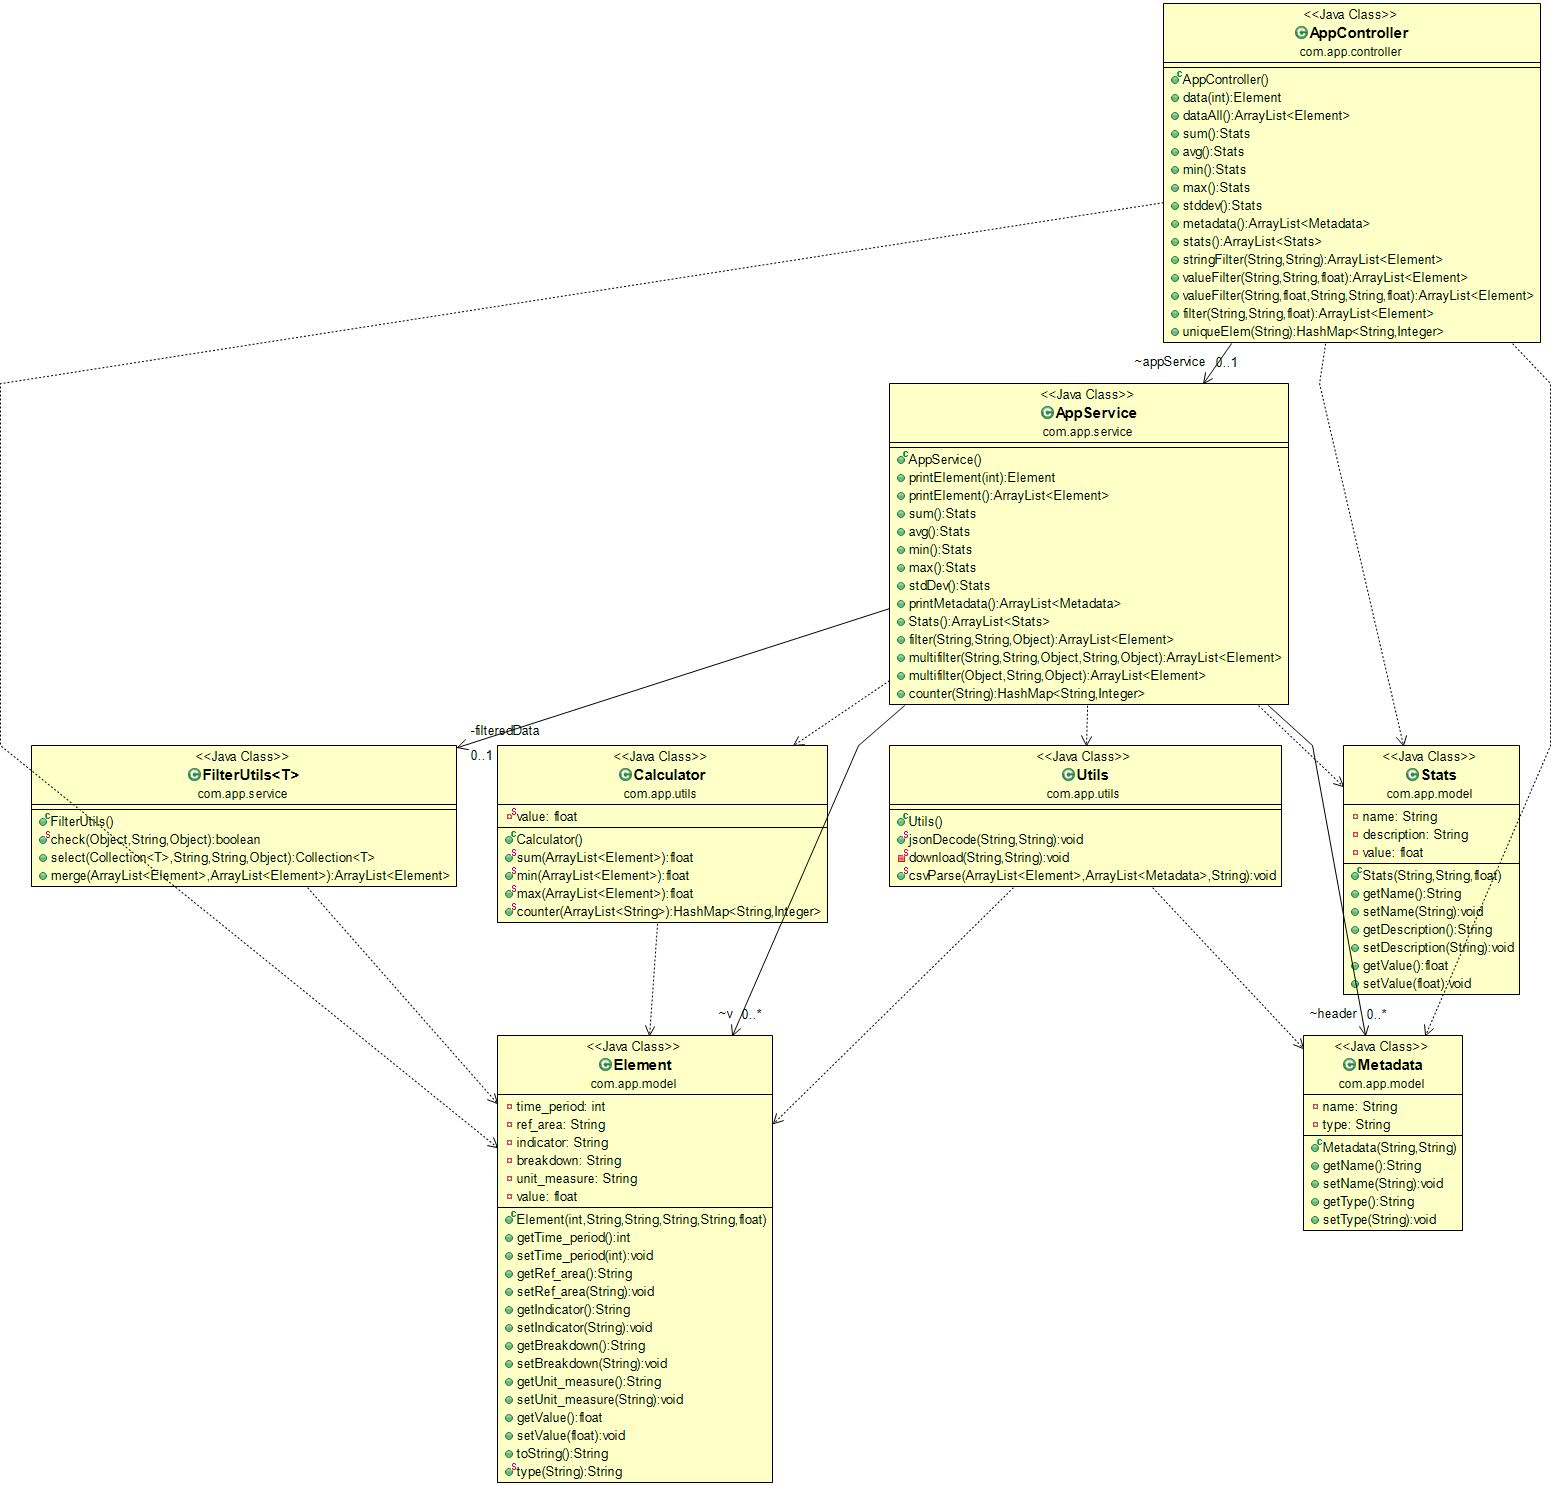
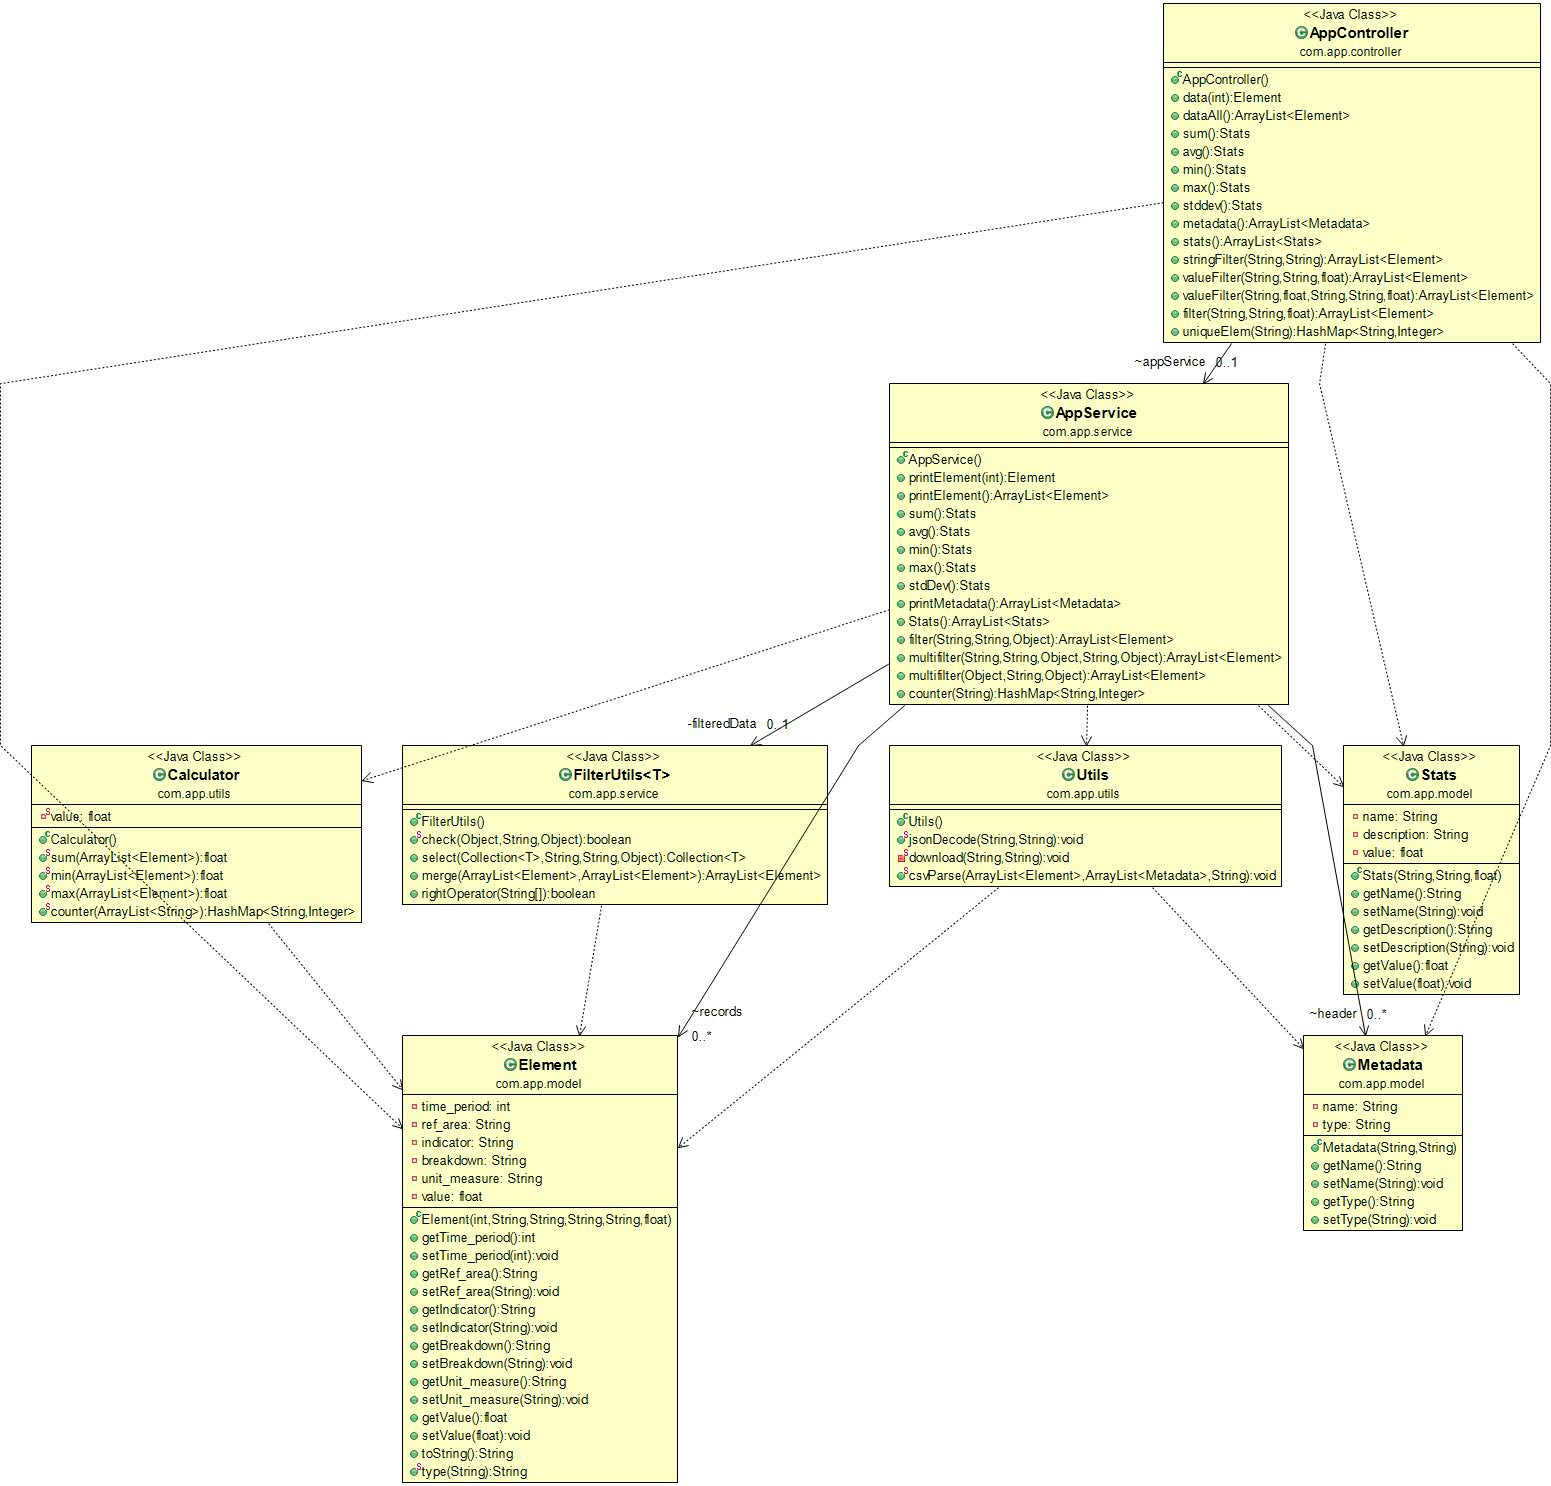
Add files via upload
Fixed diagrams to include the new method in FilterUtils class

Changed region(s): [[0.2476, 0.681, 0.5261, 1.0], [0.0, 0.4643, 0.5261, 0.6501]]

diff --git a/AppWebProject/src/main/java/com/app/service/AppService.java b/AppWebProject/src/main/java/com/app/service/AppService.java
@@ -185,7 +185,7 @@ public class AppService {
 	 */
 	public ArrayList<Element> filter(String fieldName, String operator, Object value) {
 		if (!filteredData.rightOperator(operator)) {
-			throw new RuntimeException("Operatore di confronto non valido. Operatori validi: gt, lt, equ");
+			throw new RuntimeException("Operatore di confronto non valido. Operatori validi: gt, lt, eq");
 		}
 		return (ArrayList<Element>) filteredData.select(records, fieldName, operator, value);
 
@@ -225,7 +225,7 @@ public class AppService {
 			Object value2) {
 		// check dell'operatore
 		if (!filteredData.rightOperator(operator1, operator2)) {
-			throw new RuntimeException("Operatore di confronto non valido. Operatori validi: gt, lt, equ");
+			throw new RuntimeException("Operatore di confronto non valido. Operatori validi: gt, lt, eq");
 		}
 		ArrayList<Element> list1 = new ArrayList<Element>();
 		list1 = (ArrayList<Element>) filteredData.select(records, "value", operator1, value1);
@@ -256,7 +256,7 @@ public class AppService {
 	 */
 	public ArrayList<Element> multifilter(Object value1, String operator2, Object value2) {
 		if (!filteredData.rightOperator(operator2)) {
-			throw new RuntimeException("Operatore di confronto non valido. Operatori validi: gt, lt, equ");
+			throw new RuntimeException("Operatore di confronto non valido. Operatori validi: gt, lt, eq");
 		}
 		ArrayList<Element> list1 = new ArrayList<Element>();
 		list1 = (ArrayList<Element>) filteredData.select(records, "ref_area", "eq", value1);

diff --git a/AppWebProject/src/main/java/com/app/service/FilterUtils.java b/AppWebProject/src/main/java/com/app/service/FilterUtils.java
@@ -100,7 +100,7 @@ public class FilterUtils<T> {
 	}
 
 	/**
-	 * Controlla la validità degli operatori di confronti inseriti per il
+	 * Controlla la validità degli operatori di confronto inseriti per il
 	 * filtraggio.
 	 * 
 	 * @param operator Operatori inseriti, <strong>NOTA</strong> Numero di
